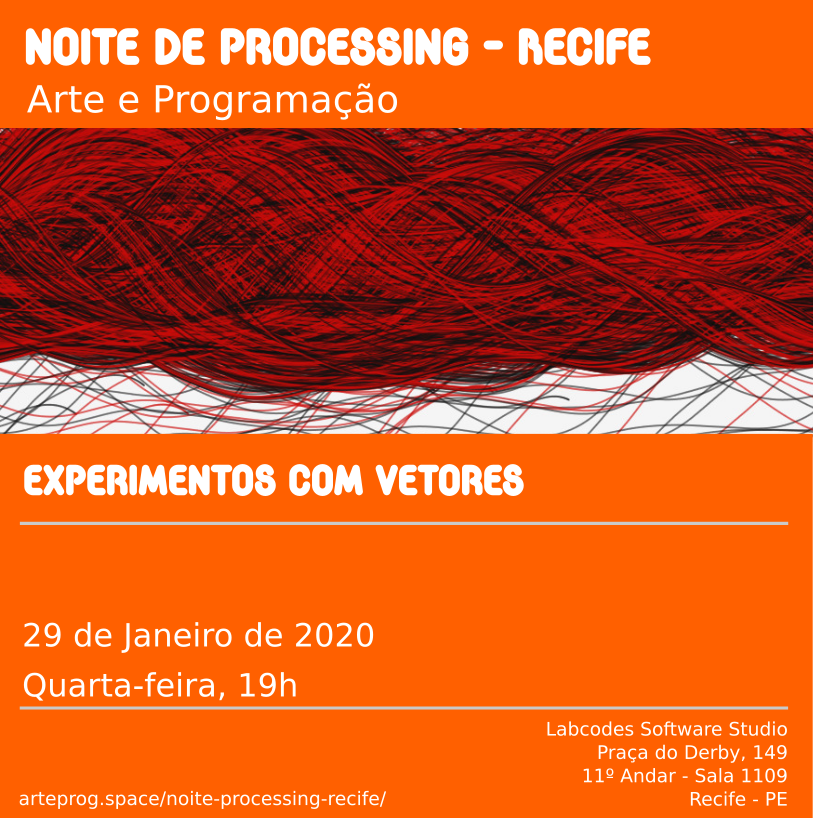
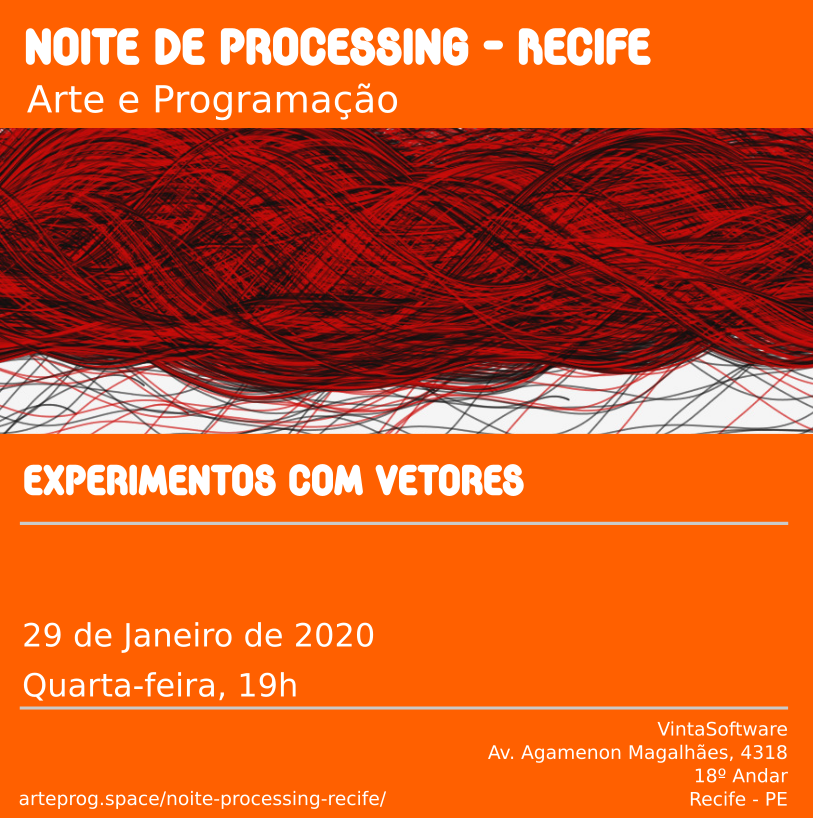
Atualiza local para vinta

Changed region(s): [[0.615, 0.8863, 0.984, 0.978]]

diff --git a/index.md b/index.md
@@ -21,13 +21,13 @@ Neste encontro vamos ver o que são vetores e como utilizá-los com Processing.
 
 **Horário**: 19 horas
 
-**Local**: Labcodes Software Studio
+**Local**: Vinta Software
 
-Praça do Derby, 149
-11º Andar - Sala 1109
-Recife - PE
+Av. Agamenon Magalhães, 4318
+Empresarial Renato Dias, 18º andar
+Paissandu, Recife
 
-[Localização no Google Maps](https://g.page/labcodes)
+[Localização no Google Maps](https://g.page/vintasoftware)
 
 <hr>
 
